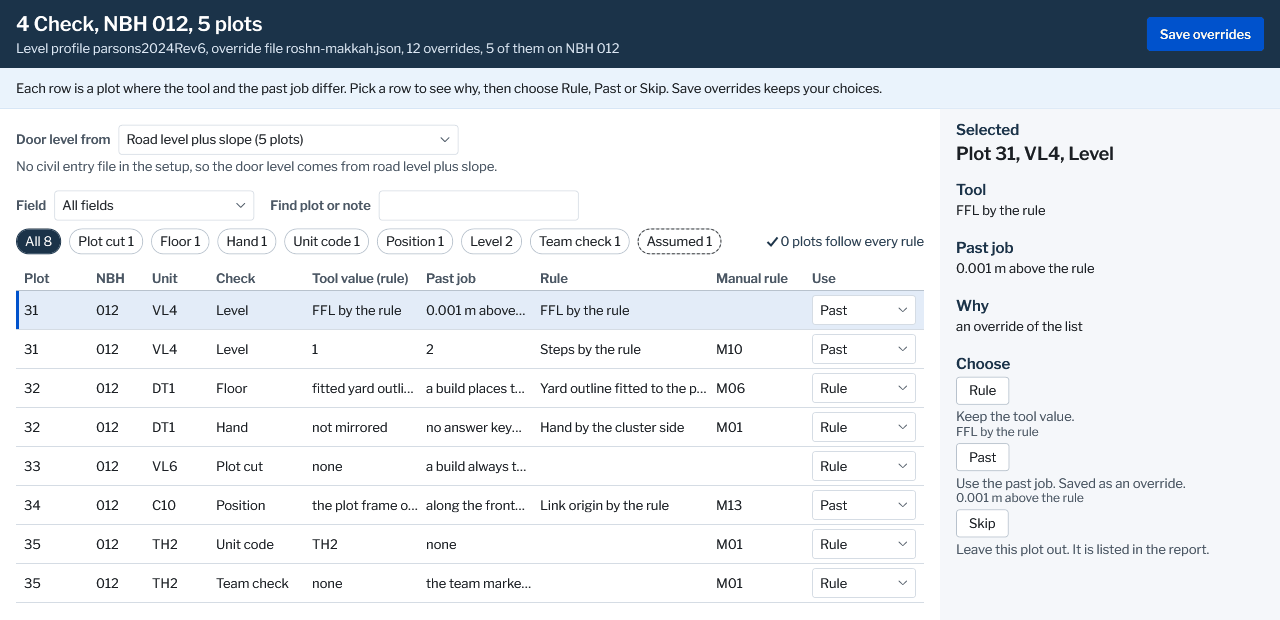
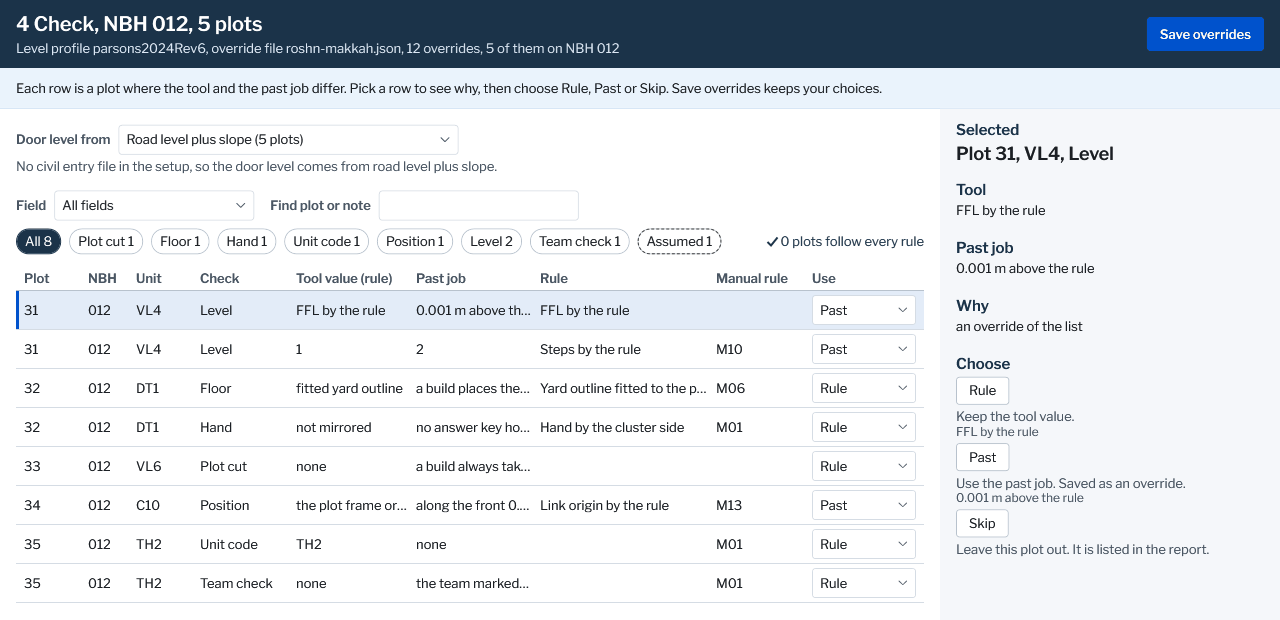
6C-3NOV-C batch 2: combo arrow clearance, Team check and Tool value widths, file name ellipsis, xref only file reads (R505)

diff --git a/dotnet/SiteAdaptation.AddIn/Theme/Theme.xaml b/dotnet/SiteAdaptation.AddIn/Theme/Theme.xaml
@@ -144,6 +144,9 @@
   <Thickness x:Key="SA.Gap.Top12">0,12,0,0</Thickness>
   <Thickness x:Key="SA.Gap.Row">0,4,0,4</Thickness>
   <Thickness x:Key="SA.Pad.Input">8,0,8,0</Thickness>
+  <!-- R505. The 24 on the right clears the arrow of the combo, so a long selected text ends before it -->
+  <Thickness x:Key="SA.Pad.Combo">8,0,24,0</Thickness>
+  <Thickness x:Key="SA.Gap.None">0,0,0,0</Thickness>
   <Thickness x:Key="SA.Gap.Right8">0,0,8,0</Thickness>
   <Thickness x:Key="SA.Gap.Left8">8,0,0,0</Thickness>
   <Thickness x:Key="SA.Gap.Left24">24,0,0,0</Thickness>
@@ -364,9 +367,15 @@
           <Grid>
             <ToggleButton Template="{StaticResource SA.Pane.ComboToggle}" Focusable="False" ClickMode="Press"
                           IsChecked="{Binding IsDropDownOpen, Mode=TwoWay, RelativeSource={RelativeSource TemplatedParent}}" />
-            <ContentPresenter IsHitTestVisible="False" Margin="{StaticResource SA.Pad.Input}" HorizontalAlignment="Left" VerticalAlignment="Center"
+            <ContentPresenter IsHitTestVisible="False" Margin="{StaticResource SA.Pad.Combo}" HorizontalAlignment="Left" VerticalAlignment="Center"
                               Content="{TemplateBinding SelectionBoxItem}" ContentTemplate="{TemplateBinding SelectionBoxItemTemplate}"
-                              ContentTemplateSelector="{TemplateBinding ItemTemplateSelector}" />
+                              ContentTemplateSelector="{TemplateBinding ItemTemplateSelector}">
+              <ContentPresenter.Resources>
+                <Style TargetType="TextBlock">
+                  <Setter Property="TextTrimming" Value="CharacterEllipsis" />
+                </Style>
+              </ContentPresenter.Resources>
+            </ContentPresenter>
             <Popup x:Name="PART_Popup" Placement="Bottom" Focusable="False" AllowsTransparency="True" IsOpen="{TemplateBinding IsDropDownOpen}">
               <Border MinWidth="{Binding ActualWidth, RelativeSource={RelativeSource TemplatedParent}}" MaxHeight="{TemplateBinding MaxDropDownHeight}"
                       Background="{StaticResource SA.Surface}" BorderBrush="{StaticResource SA.Border}" BorderThickness="{StaticResource SA.Line.All}"
@@ -614,7 +623,7 @@
   <GridLength x:Key="SA.Grid.ReviewPlot">72</GridLength>
   <GridLength x:Key="SA.Grid.ReviewLabel">88</GridLength>
   <GridLength x:Key="SA.Grid.ReviewType">112</GridLength>
-  <GridLength x:Key="SA.Grid.ReviewMirror">96</GridLength>
+  <GridLength x:Key="SA.Grid.ReviewMirror">72</GridLength>
   <GridLength x:Key="SA.Grid.ReviewCluster">112</GridLength>
   <GridLength x:Key="SA.Grid.ReviewArea">88</GridLength>
   <GridLength x:Key="SA.Grid.ReviewRoad">112</GridLength>
@@ -656,10 +665,11 @@
 
   <!-- R376, docs/design/07-mock.md 7.4. The columns of the check table are Code's choice, listed in steps/ui-shots/README.md. The two
        value columns take the rest of the width -->
-  <GridLength x:Key="SA.Grid.CheckPlot">72</GridLength>
-  <GridLength x:Key="SA.Grid.CheckNbh">56</GridLength>
+  <GridLength x:Key="SA.Grid.CheckPlot">64</GridLength>
+  <GridLength x:Key="SA.Grid.CheckNbh">48</GridLength>
   <GridLength x:Key="SA.Grid.CheckUnit">64</GridLength>
   <GridLength x:Key="SA.Grid.CheckType">96</GridLength>
+  <GridLength x:Key="SA.Grid.CheckTool">120</GridLength>
   <GridLength x:Key="SA.Grid.CheckRule">176</GridLength>
   <GridLength x:Key="SA.Grid.CheckManual">96</GridLength>
   <GridLength x:Key="SA.Grid.CheckUse">104</GridLength>

diff --git a/dotnet/SiteAdaptation.AddIn/NewProject/NewProjectWindow.xaml b/dotnet/SiteAdaptation.AddIn/NewProject/NewProjectWindow.xaml
@@ -53,13 +53,13 @@
               <!-- A long file name is cut with an ellipsis, its full path in the tooltip, so Browse and Get template keep their place -->
               <Grid>
                 <Grid.ColumnDefinitions>
-                  <ColumnDefinition Width="Auto" MaxWidth="{StaticResource SA.Size.SetupFileName}" />
+                  <ColumnDefinition Width="Auto" />
                   <ColumnDefinition Width="Auto" />
                   <ColumnDefinition Width="Auto" />
                   <ColumnDefinition Width="*" />
                 </Grid.ColumnDefinitions>
                 <TextBlock Style="{StaticResource SA.Type.Body}" Foreground="{StaticResource SA.TextMuted}" VerticalAlignment="Center" Margin="{StaticResource SA.Gap.Right8}"
-                           TextTrimming="CharacterEllipsis" Text="{Binding FileName}" ToolTip="{Binding ToolTip}" />
+                           MaxWidth="{StaticResource SA.Size.SetupFileName}" TextTrimming="CharacterEllipsis" Text="{Binding FileName}" ToolTip="{Binding ToolTip}" />
                 <Button Grid.Column="1" Style="{StaticResource SA.Button.Base}" Margin="{StaticResource SA.Gap.Right8}" Content="{x:Static np:NewProjectText.Browse}"
                         Visibility="{Binding CanBrowse, Converter={StaticResource Shown}}" Click="OnBrowse" />
                 <Button Grid.Column="2" Style="{StaticResource SA.Button.Base}" Content="{x:Static np:NewProjectText.GetTemplate}" Click="OnTemplate"

diff --git a/dotnet/SiteAdaptation.AddIn/CheckTable/CheckTableWindow.xaml b/dotnet/SiteAdaptation.AddIn/CheckTable/CheckTableWindow.xaml
@@ -141,7 +141,7 @@
             <ColumnDefinition Width="{StaticResource SA.Grid.CheckNbh}" />
             <ColumnDefinition Width="{StaticResource SA.Grid.CheckUnit}" />
             <ColumnDefinition Width="{StaticResource SA.Grid.CheckType}" />
-            <ColumnDefinition Width="*" />
+            <ColumnDefinition Width="{StaticResource SA.Grid.CheckTool}" />
             <ColumnDefinition Width="*" />
             <ColumnDefinition Width="{StaticResource SA.Grid.CheckRule}" />
             <ColumnDefinition Width="{StaticResource SA.Grid.CheckManual}" />
@@ -289,7 +289,7 @@
             <ColumnDefinition Width="{StaticResource SA.Grid.CheckNbh}" />
             <ColumnDefinition Width="{StaticResource SA.Grid.CheckUnit}" />
             <ColumnDefinition Width="{StaticResource SA.Grid.CheckType}" />
-            <ColumnDefinition Width="*" />
+            <ColumnDefinition Width="{StaticResource SA.Grid.CheckTool}" />
             <ColumnDefinition Width="*" />
             <ColumnDefinition Width="{StaticResource SA.Grid.CheckRule}" />
             <ColumnDefinition Width="{StaticResource SA.Grid.CheckManual}" />

diff --git a/dotnet/SiteAdaptation.AddIn/ReviewData/ReviewDataWindow.xaml b/dotnet/SiteAdaptation.AddIn/ReviewData/ReviewDataWindow.xaml
@@ -127,6 +127,7 @@
             <TextBlock Text="{Binding Check}">
               <TextBlock.Style>
                 <Style TargetType="TextBlock" BasedOn="{StaticResource RowText}">
+                  <Setter Property="Margin" Value="{StaticResource SA.Gap.None}" />
                   <Setter Property="Foreground" Value="{StaticResource SA.TextMuted}" />
                   <Style.Triggers>
                     <DataTrigger Binding="{Binding IsOk}" Value="True">

diff --git a/dotnet/SiteAdaptation.Tests/R505_WindowCheckTests.cs b/dotnet/SiteAdaptation.Tests/R505_WindowCheckTests.cs
@@ -1,5 +1,6 @@
 using System;
 using System.IO;
+using System.Linq;
 using System.Text.RegularExpressions;
 using Xunit;
 
@@ -170,6 +171,84 @@ namespace SiteAdaptation.Tests
             Assert.Contains("SA.Mark.StatusMissing", xaml);
             int at = xaml.IndexOf("IsMissing", StringComparison.Ordinal);
             Assert.DoesNotContain("Fill=\"{StaticResource SA.Warn}\"", xaml.Substring(at, 600));
+        }
+
+        [Fact]
+        public void R505_the_selected_text_of_a_combo_clears_the_arrow_and_ends_with_an_ellipsis()
+        {
+            string theme = Theme;
+            Assert.Matches("x:Key=\"SA.Pad.Combo\">8,0,24,0<", theme);
+            string combo = Style(theme, "SA.Pane.Combo");
+            Assert.Contains("<ContentPresenter IsHitTestVisible=\"False\" Margin=\"{StaticResource SA.Pad.Combo}\"", combo);
+            Assert.Matches("(?s)<ContentPresenter.Resources>.*TextTrimming\" Value=\"CharacterEllipsis\"", combo);
+        }
+
+        [Fact]
+        public void R505_team_check_of_review_data_keeps_not_checked_whole()
+        {
+            Assert.Matches("x:Key=\"SA.Grid.ReviewMirror\">72<", Theme);
+            string xaml = Addin("ReviewData", "ReviewDataWindow.xaml");
+            Assert.Equal(2, Regex.Matches(xaml, "SA.Grid.ReviewMirror").Count);
+            int chip = xaml.IndexOf("Text=\"{Binding Check}\"", StringComparison.Ordinal);
+            Assert.Contains("Property=\"Margin\" Value=\"{StaticResource SA.Gap.None}\"", xaml.Substring(chip, 400));
+        }
+
+        [Fact]
+        public void R505_the_tool_value_column_of_the_check_table_has_a_width_of_its_own_in_the_head_and_the_rows()
+        {
+            string theme = Theme;
+            Assert.Matches("x:Key=\"SA.Grid.CheckTool\">120<", theme);
+            Assert.Matches("x:Key=\"SA.Grid.CheckNbh\">48<", theme);
+            Assert.Matches("x:Key=\"SA.Grid.CheckPlot\">64<", theme);
+            string xaml = Addin("CheckTable", "CheckTableWindow.xaml");
+            Assert.Equal(2, Regex.Matches(xaml, "<ColumnDefinition Width=\"\\{StaticResource SA.Grid.CheckTool\\}\" />").Count);
+            Assert.DoesNotContain("CheckType}\"/><ColumnDefinitionWidth=\"*\"", xaml.Replace(" ", "").Replace("\r", "").Replace("\n", ""));
+        }
+
+        [Fact]
+        public void R505_a_long_file_name_of_new_project_is_cut_by_the_text_with_an_ellipsis()
+        {
+            string xaml = Addin("NewProject", "NewProjectWindow.xaml");
+            Assert.DoesNotContain("<ColumnDefinition Width=\"Auto\" MaxWidth", xaml);
+            Assert.Matches("MaxWidth=\"\\{StaticResource SA.Size.SetupFileName\\}\"[^>]*TextTrimming=\"CharacterEllipsis\" Text=\"\\{Binding FileName\\}\" ToolTip=\"\\{Binding ToolTip\\}\"", Regex.Replace(xaml, "\\s+", " "));
+        }
+
+        private static string ScanWith(params string[] notRead)
+        {
+            var checks = new Newtonsoft.Json.Linq.JArray();
+            foreach (string source in notRead)
+            {
+                checks.Add(new Newtonsoft.Json.Linq.JObject { ["what"] = "notRead", ["source"] = source, ["plot"] = "", ["value"] = "x" });
+            }
+            return new Newtonsoft.Json.Linq.JObject
+            {
+                ["inputs"] = new Newtonsoft.Json.Linq.JArray { new Newtonsoft.Json.Linq.JObject { ["role"] = "scanCad:1", ["name"] = "site.dwg" } },
+                ["rows"] = new Newtonsoft.Json.Linq.JArray { new Newtonsoft.Json.Linq.JObject { ["kind"] = "cadLayer", ["source"] = "site.dwg|A", ["found"] = "4 closed outlines, 6 texts, 1 blocks" } },
+                ["checks"] = checks,
+                ["conflicts"] = new Newtonsoft.Json.Linq.JArray(),
+            }.ToString();
+        }
+
+        [Fact]
+        public void R505_a_file_with_only_xref_checks_reads_and_says_how_many_references_were_not_read()
+        {
+            var settings = new SiteAdaptation.Common.Settings.ProjectSettings();
+            var file = SiteAdaptation.Common.Scan.ScanView.Read(ScanWith("site.dwg|xref a", "site.dwg|xref b", "site.dwg|xref c"), settings).Files.Single();
+            Assert.Equal("Read", file.Status);
+            Assert.EndsWith("External references not read: 3.", file.Found);
+            Assert.StartsWith("1 layers, 4 closed outlines", file.Found);
+        }
+
+        [Fact]
+        public void R505_a_file_with_a_depth_limit_a_cycle_or_layer_pairs_check_stays_not_read()
+        {
+            var settings = new SiteAdaptation.Common.Settings.ProjectSettings();
+            foreach (string source in new[] { "site.dwg|depth limit", "site.dwg|cycle", "site.dwg|layer pairs" })
+            {
+                var file = SiteAdaptation.Common.Scan.ScanView.Read(ScanWith("site.dwg|xref a", source), settings).Files.Single();
+                Assert.Equal("Not read", file.Status);
+            }
+            Assert.DoesNotContain("External", SiteAdaptation.Common.Scan.ScanView.Read(ScanWith(), settings).Files.Single().Found);
         }
     }
 }

diff --git a/dotnet/SiteAdaptation.Common/Scan/ScanView.cs b/dotnet/SiteAdaptation.Common/Scan/ScanView.cs
@@ -164,7 +164,11 @@ namespace SiteAdaptation.Common.Scan
                     : role.StartsWith("scanExcel", StringComparison.Ordinal) ? ScanViewText.Excel
                     : role.StartsWith("scanPdf", StringComparison.Ordinal) ? ScanViewText.Pdf
                     : role.StartsWith("prototype", StringComparison.Ordinal) ? ScanViewText.Prototype : role;
-                bool missed = checks.Any(check => Text(check["what"]) == "notRead" && FileOf(Text(check["source"])) == name);
+                // An external reference the explode does not follow leaves the file read, its sheet is the plots the file gives. A depth limit,
+                // a cycle or layer pairs left mean part of the file itself was not read
+                List<string> notRead = checks.Where(check => Text(check["what"]) == "notRead" && FileOf(Text(check["source"])) == name).Select(check => Text(check["source"])).ToList();
+                int xrefs = notRead.Count(source => source.Substring(name.Length).StartsWith("|xref", StringComparison.Ordinal));
+                bool missed = notRead.Count > xrefs;
                 var file = new ScanFileRow { Name = name, Kind = kind, Status = missed ? ScanViewText.NotRead : ScanViewText.Read };
                 if (kind == ScanViewText.Cad)
                 {
@@ -186,6 +190,10 @@ namespace SiteAdaptation.Common.Scan
                 {
                     int sources = rows.Count(row => Text(row["kind"]) == VillaTypeKind && FileOf(Text(row["source"])) == name);
                     file.Found = Fill(ScanViewText.FoundSources, Count(sources));
+                }
+                if (xrefs > 0)
+                {
+                    file.Found += " " + Fill(ScanViewText.XrefsNotRead, Count(xrefs));
                 }
                 data.Files.Add(file);
             }

diff --git a/dotnet/SiteAdaptation.Tests/R435_ScanViewTests.cs b/dotnet/SiteAdaptation.Tests/R435_ScanViewTests.cs
@@ -69,7 +69,7 @@ namespace SiteAdaptation.Tests
                 },
                 ["rows"] = rows,
                 ["conflicts"] = found,
-                ["checks"] = new JArray { new JObject { ["what"] = "notRead", ["source"] = "feet.dwg|xref base", ["plot"] = "", ["value"] = "external reference" } },
+                ["checks"] = new JArray { new JObject { ["what"] = "notRead", ["source"] = "feet.dwg|depth limit", ["plot"] = "", ["value"] = "1" } },
                 ["plots"] = new JArray(Enumerable.Range(1, 5).Select(number => new JObject { ["plot"] = number.ToString() })),
             };
         }

diff --git a/dotnet/SiteAdaptation.Tests/UiLabelTests.cs b/dotnet/SiteAdaptation.Tests/UiLabelTests.cs
@@ -183,7 +183,8 @@ namespace SiteAdaptation.Tests
             // SPEED-2NOV-C added 1, the line under the row Prototypes for files older than the running Revit (R496)
             // Q158 added 1, the short line of a grey Apply
             // FIX-3NOV-B added 1, the record of a step that did not reach the model (R498)
-            Assert.Equal(252, chosen);
+            // R505 added 1, the end of the found text of a file with external references
+            Assert.Equal(253, chosen);
             Assert.True(matched > 100, matched.ToString());
         }
 

diff --git a/dotnet/SiteAdaptation.Common/Scan/ScanViewText.cs b/dotnet/SiteAdaptation.Common/Scan/ScanViewText.cs
@@ -32,6 +32,7 @@ namespace SiteAdaptation.Common.Scan
 
         public const string FoundCad = "<n> layers, <n> closed outlines, <n> texts, <n> blocks";
         public const string FoundSources = "<n> villa type sources";
+        public const string XrefsNotRead = "External references not read: <n>.";
 
         public const string ChoiceFrom = "<name> from <name>";
 

diff --git a/docs/rules/12-lane-c-r430-up.md b/docs/rules/12-lane-c-r430-up.md
@@ -25,4 +25,4 @@ Lane C NEWPROJ-UI (PR 112, 31 Oct 2026) and SCAN-UI (1 Nov 2026). The ids R430 t
 - **R495 Check rows sort and filter.** Input: the rows of the 4 Check window. Output: a click on a header sorts the column up, a second click reverses (CheckSort), the field list narrows to one field, the find box takes a number as a plot and other text as whole words of the note, a Showing line tells the shown and total rows, and a filter or sort never drops a Use from a save, a count or the answer. A count of plots reads 1 plot, 2 plots (CountText.Plots). CheckTableState.Filter and Fields, CheckViewModel SortBy and FieldPick called by the window. Tests: R495_CheckSortFilterTests.cs, R495_CheckWindowSortTests.cs, R495_CountTextTests.cs.
 - **R496 Pane warns on old prototypes.** Input: the Prototypes folder of the pane and the Revit the add-in runs on (application VersionNumber). Output: RevitFormat.Of reads the Revit format year of one .rvt by seeks in its compound file (header, directory, stream BasicFileInfo, key Format, the reading of R203), null for a file that does not read. PrototypeFormats.Oldest gives the oldest year of at most 20 files of the top folder, names like name.0001.rvt left out, null for an empty, missing or unreadable folder, and for a mix it is the oldest. PrototypeFormats.OldYear names a year only when it is older than the running Revit. PaneViewModel.RefreshFormat shows the CHOSEN line of the label list under the row Prototypes with the year read and the running year, kept by folder with its size and stamp, the look runs off the UI thread (DiskProbe.LookFormat) and never writes. The warning stops nothing and button 7 runs as before. Callers: RevitFormat.Of by PrototypeFormats.Oldest, Oldest by DiskProbe.LookFormat, OldYear by PaneViewModel.RefreshFormat, LookFormat and RunningRevit set by PaneHost.Register. Tests: R496_RevitFormatTests.cs, R496_OldPrototypesPaneTests.cs.
 - **R497 Revit slog leaves input check.** Input: the files of a folder input of a buttons run, the input roots of config. Output: the list of real inputs of Run-TestHost.ps1 and so of a listener job, held by SHA-256 before and after (D19), without a .slog file directly in a folder named <name>_backup outside every input root, which Revit writes when it opens a workshared prototype to make a mass, as R458 for the step hash. Under an input root it counts. After the run the folder inputs are listed again, so a file new under an input root also fails an own run and a send, and a file new outside one does not, as Revit adds them in the prototype folder of the work root. Any other file counts. Without it each run that made masses ended as changed inputs, SPB2 by exit 1, SPMM as failed, 6 files each (RAN). Test: R497_only_a_slog_of_a_backup_folder_outside_the_input_roots_leaves_the_input_check, R497_the_input_list_of_a_buttons_run_uses_the_check_with_the_roots_of_config, R497_a_file_new_under_an_input_root_counts_and_one_outside_does_not.
-- **R505 Windows match their boards.** Input: the boards of docs/design/boards and the XAML of the pane, New project, How it works and What the tool read, checked static on 3 Nov 2026. Output: the buttons of SA.Button.Base and SA.Button.Primary react to the mouse and a disabled button keeps its grey, the warn boxes take the border SA.WarnBorder and the Conflicts count SA.ConflictCount, each pane section but the first has a line above, a found row mark of the pane is a green disc with a white tick at 18 and a missing one an amber ring with an amber sign, the box line and the start line are in the text colour, step names weigh 500 and the next one 600, the chip 600, the dry run box has a border of 1, a link in a line of text weighs 600, on first open the steps have grey names and a plain status with no chip, the band lines of New project and How it works stop at 640 and 660, the missing mark of New project is an amber sign at 14 with no disc. The colours the spec has no name for are tokens of Theme.xaml and listed in R505_WindowCheckTests.BoardColours, the amber SA.Warn stays as it was (open between the spec and the boards). dotnet/SiteAdaptation.AddIn/Theme/Theme.xaml, Pane/SitePanePage.xaml. Test: R505_the_base_and_the_primary_button_react_to_the_mouse_and_a_disabled_one_wins, R505_the_warn_boxes_take_the_warn_border_token, R505_the_conflicts_count_has_its_own_colour, R505_each_pane_section_but_the_first_has_a_line_above, R505_a_found_row_mark_in_the_pane_is_a_green_disc_with_a_white_tick_at_18, R505_a_missing_row_mark_in_the_pane_is_an_amber_ring_with_an_amber_sign, R505_the_box_line_and_the_start_line_are_in_the_text_colour, R505_step_names_are_medium_the_next_one_semibold_and_the_chip_semibold, R505_the_dry_run_box_has_a_border_of_one_pixel, R505_a_link_in_a_line_of_text_is_semibold, R505_on_first_open_the_steps_have_grey_names_and_a_plain_status, R505_the_band_line_of_new_project_and_how_it_works_has_the_max_width_of_its_board, R505_a_missing_mark_of_new_project_is_an_amber_sign_at_14_with_no_disc.
+- **R505 Windows match their boards.** Input: the boards of docs/design/boards and the XAML of the pane, New project, How it works and What the tool read, checked static on 3 Nov 2026. Output: the buttons of SA.Button.Base and SA.Button.Primary react to the mouse and a disabled button keeps its grey, the warn boxes take the border SA.WarnBorder and the Conflicts count SA.ConflictCount, each pane section but the first has a line above, a found row mark of the pane is a green disc with a white tick at 18 and a missing one an amber ring with an amber sign, the box line and the start line are in the text colour, step names weigh 500 and the next one 600, the chip 600, the dry run box has a border of 1, a link in a line of text weighs 600, on first open the steps have grey names and a plain status with no chip, the band lines of New project and How it works stop at 640 and 660, the missing mark of New project is an amber sign at 14 with no disc. Batch 2 of the real windows: the text of a combo ends before its arrow with an ellipsis (SA.Pad.Combo), Team check of Review data holds Not checked whole (Mirror 72, chip text with no margin), Tool value of 4 Check has a column of 120 with Nbh 48 and Plot 64, a long file name of New project is cut by its text with an ellipsis and a tooltip, a file whose notRead checks are all xref reads Read and its What it found text ends with External references not read, a file with a depth limit, a cycle or layer pairs check stays Not read. The colours the spec has no name for are tokens of Theme.xaml and listed in R505_WindowCheckTests.BoardColours, the amber SA.Warn stays as it was (open between the spec and the boards). dotnet/SiteAdaptation.AddIn/Theme/Theme.xaml, Pane/SitePanePage.xaml. Test: R505_the_base_and_the_primary_button_react_to_the_mouse_and_a_disabled_one_wins, R505_the_warn_boxes_take_the_warn_border_token, R505_the_conflicts_count_has_its_own_colour, R505_each_pane_section_but_the_first_has_a_line_above, R505_a_found_row_mark_in_the_pane_is_a_green_disc_with_a_white_tick_at_18, R505_a_missing_row_mark_in_the_pane_is_an_amber_ring_with_an_amber_sign, R505_the_box_line_and_the_start_line_are_in_the_text_colour, R505_step_names_are_medium_the_next_one_semibold_and_the_chip_semibold, R505_the_dry_run_box_has_a_border_of_one_pixel, R505_a_link_in_a_line_of_text_is_semibold, R505_on_first_open_the_steps_have_grey_names_and_a_plain_status, R505_the_band_line_of_new_project_and_how_it_works_has_the_max_width_of_its_board, R505_a_missing_mark_of_new_project_is_an_amber_sign_at_14_with_no_disc, R505_the_selected_text_of_a_combo_clears_the_arrow_and_ends_with_an_ellipsis, R505_team_check_of_review_data_keeps_not_checked_whole, R505_the_tool_value_column_of_the_check_table_has_a_width_of_its_own_in_the_head_and_the_rows, R505_a_long_file_name_of_new_project_is_cut_by_the_text_with_an_ellipsis, R505_a_file_with_only_xref_checks_reads_and_says_how_many_references_were_not_read, R505_a_file_with_a_depth_limit_a_cycle_or_layer_pairs_check_stays_not_read.

diff --git a/docs/design/14-ui-labels.md b/docs/design/14-ui-labels.md
@@ -670,6 +670,7 @@ The window What the tool read of Lane C SCAN-UI, word for word from docs/design/
 - `<n> files`
 - `<n> layers, <n> closed outlines, <n> texts, <n> blocks` CHOSEN, the board gives two shorter lines
 - `<n> villa type sources` CHOSEN, what an Excel or PDF file gave
+- `External references not read: <n>.` CHOSEN, the end of the What it found text of a file with external references the scan does not follow, the file still reads
 - `<name> from <name>`
 - `<name> is not clear`
 - `No source matches your prototype names on enough plots. The best covers <n> of <n>.`
